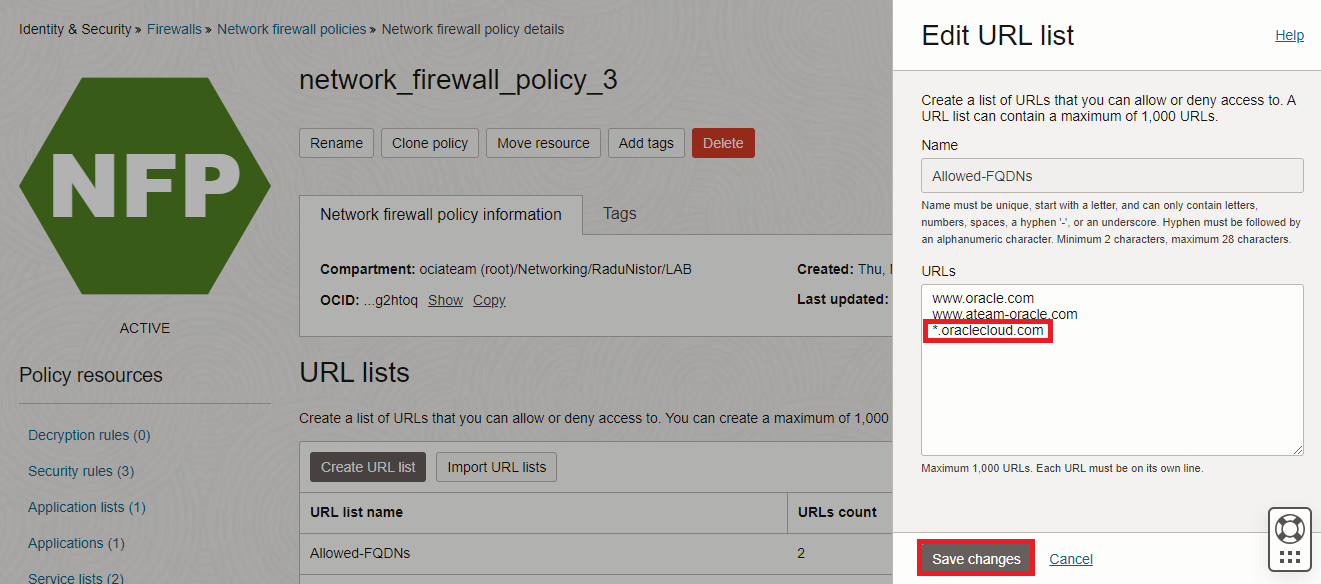
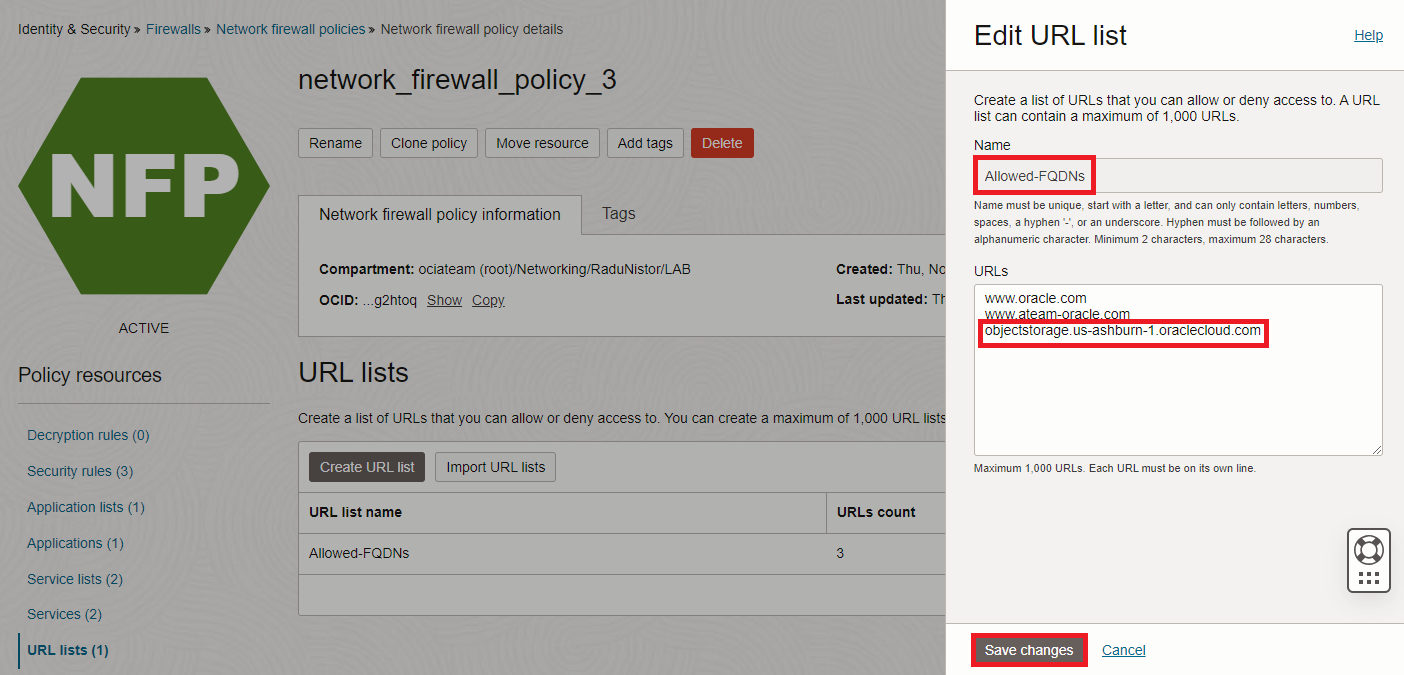
lab4 update

diff --git a/oci-network-firewall/lab4/lab4.md b/oci-network-firewall/lab4/lab4.md
@@ -14,7 +14,8 @@ In this lab, you will:
 
 * Deploy a VCN Service Gateway for outbound connectivity to Oracle Services.
 * Adjust VCN routing so the traffic to Services goes through the Service Gateway.
-* Modify the OCI Firewall policy to allow outbound traffic to the Oracle Cloud Object Storage.
+* Deploy a Public Object Storage Bucket with a simple test file inside.
+* Modify the OCI Firewall policy to allow outbound traffic to Oracle Cloud Object Storage.
 * Test the new Firewall Rule and observe the Firewall Traffic Log. 
 
 ![lab4](images/lab4.png)
@@ -48,9 +49,33 @@ In OCI, private Compute Instances can use a Service Gateway to connect to Oracle
 
   Note: the image shows the route for 10.0.0.32/27. Repeat the procedure and add 10.0.0.64/27 too.
 
-## Task 3: Modify the OCI Firewall policy
+## Task 3: Deploy a Public Object Storage Bucket
+  In order to test reachability to an OCI Service we will deploy a Public Bucket in the Object Storage Service. Then we will add an empty test file and try to retrieve it from an OCI private Compute Instance.
 
-In a previous **LAB** we created a Firewall Policy that inspects traffic destined for the World Wide Web. We also enabled **URL Filtering** and are allowing only certain domains to be reached. Since this new traffic to Oracle Services will match the same Rule (Source: VCN Subnets, Destination: Any, HTTPS), we will simply modify the URL Lists to allow Oracle Services FQDNs. Most Oracle Services are deployed under the **oraclecloud.com** domain so we will add this domain, as a **wildcard** to the URL List.
+1. On the Oracle Cloud Infrastructure Console Home page, go to the Burger menu (on top left), select Storage and click on **Buckets** under **Object Storage & Archive Storage**.
+  ![Click Buckets](images/clickbuckets.png)
+
+2. In the menu that opens, click **Create Bucket** and, in the next menu, give it a name - **LAB** - and press Create. Leave everything else on default.
+  ![Create Bucket](images/createbucket.png)
+
+3. Next, click the 3 dots at the end of the row and change the visibility of the bucket.
+  ![Edit Bucket1](images/editbucket1.png).
+
+  ![Edit Bucket2](images/editbucket2.png)
+
+4. Next, click on the Bucket. In the Bucket Details Page, click Upload. In the menu that opens, drag a test file. I created an empty file called **lab.txt** which I will use.
+  ![Upload File](images/uploadfile.png)
+
+5. Once you have a file there, click on the 3 dots at the end of the row and click **View Object Details**.
+  ![View Obj1](images/viewobj1.png)
+
+  ![View Obj2](images/viewobj2.png)
+
+  Take note of the Object's URL, that is what we will use in our test, later in this LAB. For this file, the URL is **https://objectstorage.us-ashburn-1.oraclecloud.com/n/ociateam/b/LAB/o/lab.txt**.
+
+## Task 4: Modify the OCI Firewall policy
+
+In a previous **LAB** we created a Firewall Policy that inspects traffic destined for the World Wide Web. We also enabled **URL Filtering** and are allowing only certain domains to be reached. Since this new traffic to Oracle Services will match the same Rule (Source: VCN Subnets, Destination: Any, HTTPS), we will simply modify the URL Lists to allow an Oracle Services FQDN. Most Oracle Services are deployed under the **oraclecloud.com** domain, including Object Storage so we will add an entry in the existing URL List for **objectstorage.us-ashburn-1.oraclecloud.com**.
 
 Since we cannot modify a Firewall Policy that is **IN-USE** by a Firewall, the usual procedure follows this workstream: we clone the existing Policy that is in use -> we add or remove any configuration from the new, cloned Policy -> we modify the OCI Network Firewall to use the Cloned Policy. 
 
@@ -63,9 +88,9 @@ Since we cannot modify a Firewall Policy that is **IN-USE** by a Firewall, the u
 3. Go back to the **Network Firewall policies** and click on the newly cloned policy called **network_firewall_policy_3**.
   ![Click Policy2](images/clickpolicy2.png)
 
-In the new Network Firewall Policy we will simply modify the URL list to allow Oracle Services:
+  In the new Network Firewall Policy we will simply modify the URL list to allow Oracle Services:
 
-4. In the **Network firewall policy details** menu, click on **URL Lists** on the left menu and edit the list **Allowed-FQDNs** by adding *.oraclecloud.com.
+4. In the **Network firewall policy details** menu, click on **URL Lists** on the left menu and edit the list **Allowed-FQDNs** by adding **objectstorage.us-ashburn-1.oraclecloud.com**.
   ![Modify url list](images/modifyurl1.png)
 
   ![Modify url2](images/modifyurl2.png)
@@ -79,7 +104,7 @@ In the new Network Firewall Policy we will simply modify the URL list to allow O
 
 ## Task 4: Test traffic and observe logs
 
-  To test the new policy I will try to connect to a Public Object Storage Bucket deployed in the same OCI Region. The URL for an item in the bucket is https://objectstorage.us-ashburn-1.oraclecloud.com/n/ociateam/b/LAB/o/102623.dmp. The firewall should allow the traffic, which will take the Service Gateway path. 
+  To test the new policy I will try to download the **lab.txt** file I uploaded to the Public Object Storage Bucket. The URL for the item is https://objectstorage.us-ashburn-1.oraclecloud.com/n/ociateam/b/LAB/o/lab.txt. The firewall should allow the traffic, which will take the Service Gateway path. 
   ![Lab4 flow](images/lab4flow.png)
 
 1. Start the **Cloud Shell** Instance from the top-right menu. Make sure it starts with the **Private Network** configured under task 1 of LAB2.
@@ -93,8 +118,7 @@ Note: When running your lab, you will probably get different IPs for your hosts.
 
 From the Cloud Shell Instance, issue the following commands:
 * ssh opc@10.0.0.47  -> this will connect you to APP-VM1.
-* host objectstorage.us-ashburn-1.oraclecloud.com -> this show us the IP of the website.
-* curl -kI https://objectstorage.us-ashburn-1.oraclecloud.com/n/ociateam/b/LAB/o/102623.dmp  -> we will attempt to get the headers.
+* wget https://objectstorage.us-ashburn-1.oraclecloud.com/n/ociateam/b/LAB/o/lab.txt --> this will attempt to download the file.
   ![Lab4 test](images/lab4test.png)
 
 3. Now let's check the firewall **Traffic** Log. Go to the Firewall Detail page and click on **Logs** on the left side menu. In the menu that opens, click on the Traffic Log.
